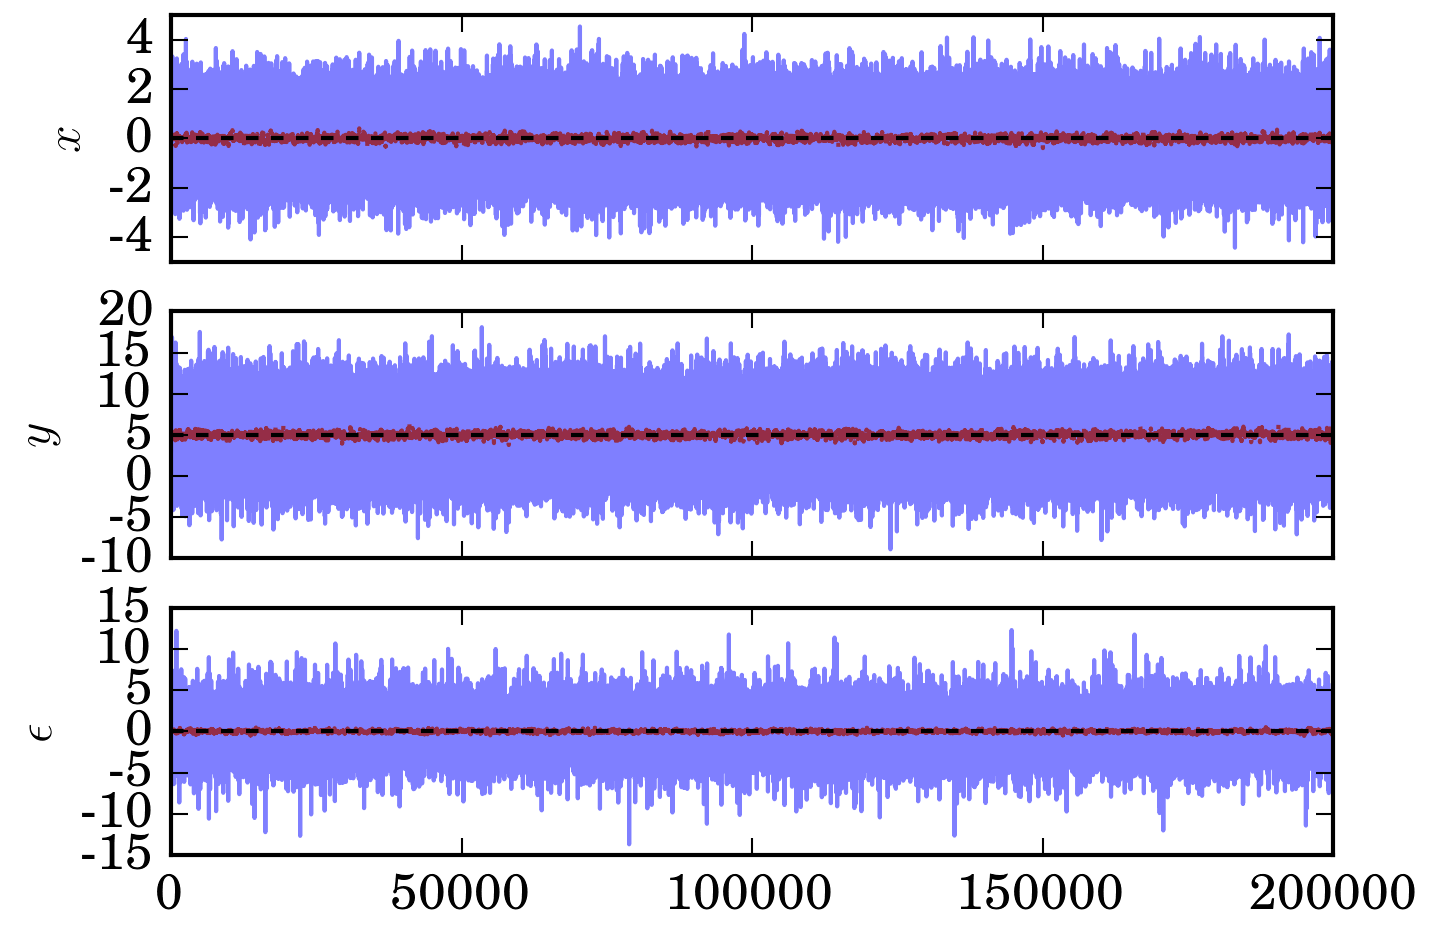
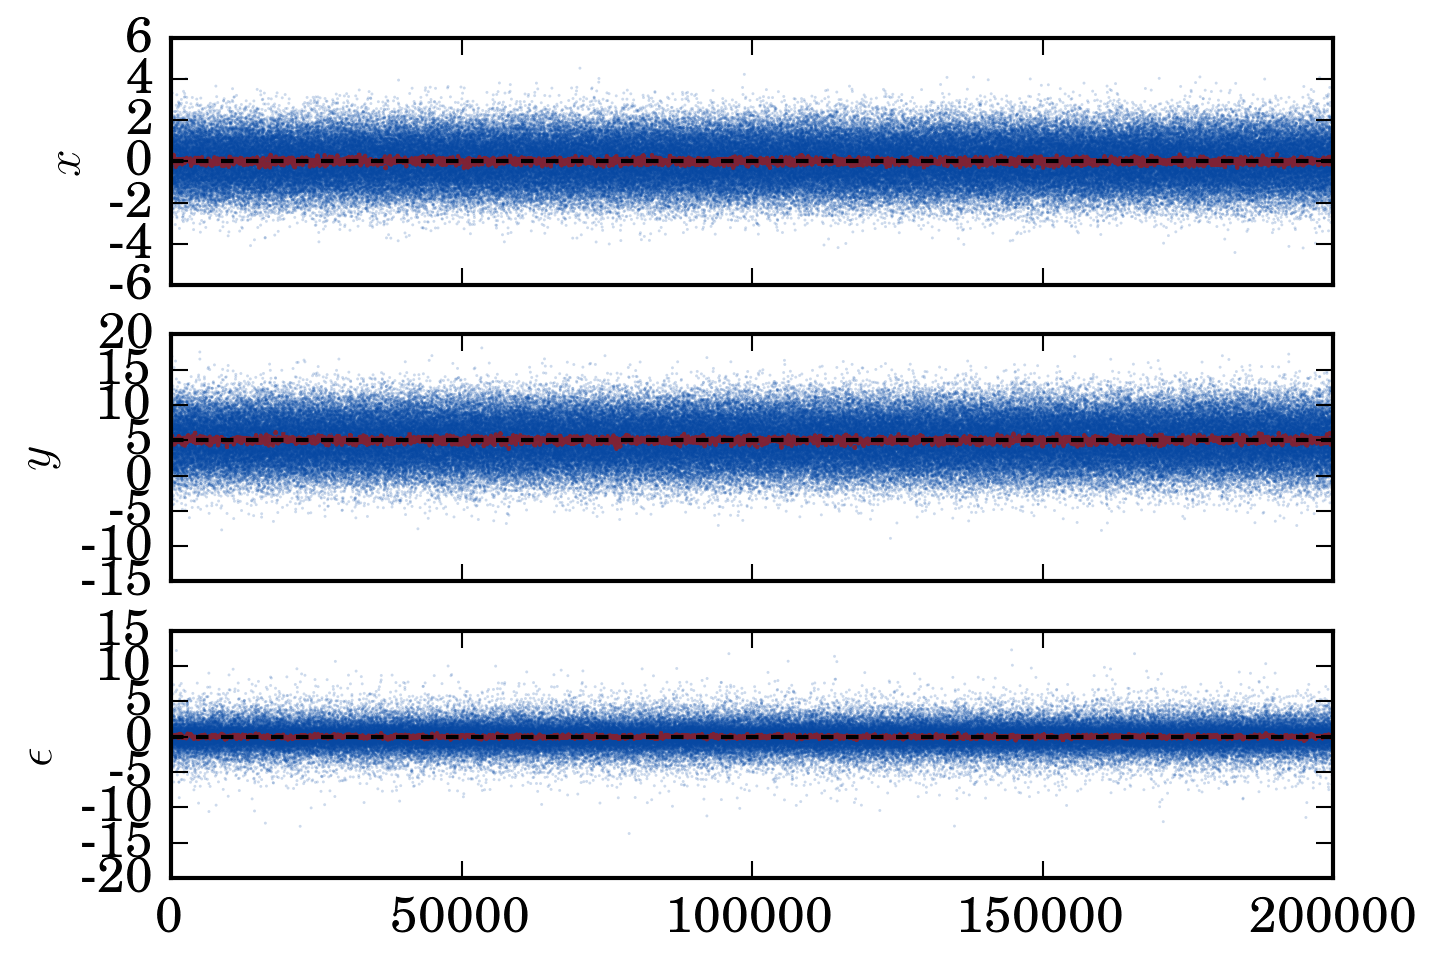
Updating plot_walks plotting.

diff --git a/dessn/chain/chain.py b/dessn/chain/chain.py
@@ -561,14 +561,14 @@ class ChainConsumer(object):
         if extents is not None:
             ax.set_ylim(extents)
         assert convolve is None or isinstance(convolve, int), "Convolve must be an integer pixel window width"
-
+        x = np.arange(data.size)
+        ax.set_xlim(0, x[-1])
         ax.set_ylabel(parameter)
-
-        ax.plot(data, 'b', alpha=0.5)
+        ax.scatter(x, data, c="#0345A1", s=2, marker=".", edgecolors="none", alpha=0.2)
         if convolve is not None:
             filt = np.ones(convolve) / convolve
             filtered = np.convolve(data, filt, mode="same")
-            ax.plot(filtered, ls=':', color="#9C1919", alpha=0.8)
+            ax.plot(x, filtered, ls=':', color="#9C1919", alpha=0.8)
         if truth is not None:
             ax.axhline(truth, **self.parameters_truth)
 

diff --git a/dessn/chain/demoVarious.py b/dessn/chain/demoVarious.py
@@ -159,17 +159,17 @@ if __name__ == "__main__":
 
     demo = DemoVarious()
 
-    # demo.various1_no_histogram()
+    demo.various1_no_histogram()
 
-    # demo.various2_select_parameters()
+    demo.various2_select_parameters()
 
-    # demo.various3_flip_histgram()
+    demo.various3_flip_histogram()
 
-    # demo.various4_summaries()
+    demo.various4_summaries()
 
-    # demo.various5_custom_colours()
+    demo.various5_custom_colours()
 
-    # demo.various6_truth_values()
+    demo.various6_truth_values()
 
     demo.various7_rainbow()
 
